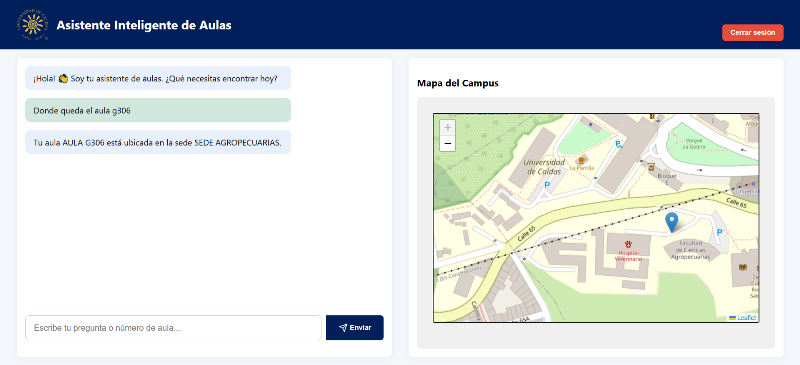
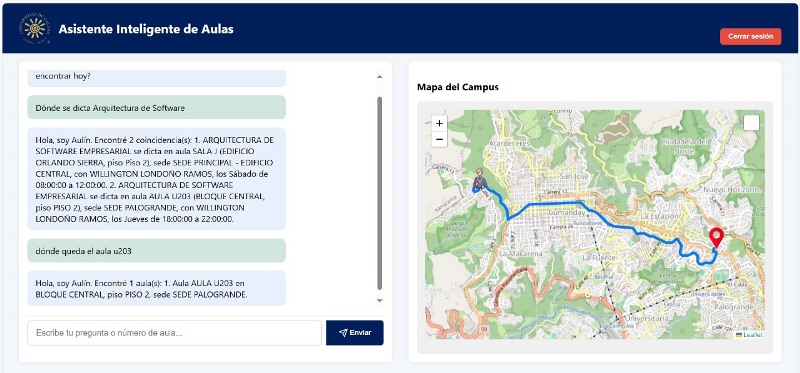
Actualización chatbot asistido con IA (DeepSeek)
Se actualiza la versión con chatbot asistido con IA (DeepSeek) respondiendo a preguntas

diff --git a/src/views/Chatbot.js b/src/views/Chatbot.js
@@ -12,17 +12,22 @@ const Chatbot = () => {
   const navigate = useNavigate();
 
   const [messages, setMessages] = useState([
-    { from: 'bot', text: '¡Hola! 👋 Soy tu asistente de aulas. ¿Qué necesitas encontrar hoy?' }
+    { from: 'bot', text: '¡Hola! 👋 Soy Auli, tu asistente de aulas. ¿Qué aula necesitas encontrar hoy?' }
   ]);
   const [input, setInput] = useState('');
   const [token, setToken] = useState(localStorage.getItem('token') || null);
   const [usuario, setUsuario] = useState(null);
 
-  // Coordenadas iniciales centradas en la Universidad de Caldas (ejemplo)
-  //const [coordenadas, setCoordenadas] = useState({ lat: 5.0703, lng: -75.5138 });
-  const [coordenadas, setCoordenadas] = useState({ lat: 5.055760183855939, lng: -75.49397150793457 });
-  
-  // Captura token desde la URL
+  // Aula por defecto
+  const [coordenadas, setCoordenadas] = useState({
+    lat: 5.055975734921131,
+    lng: -75.49280038325303
+  });
+
+  // Estado para la ubicación actual del usuario
+  const [miUbicacion, setMiUbicacion] = useState(null);
+
+  // Captura token desde URL
   useEffect(() => {
     const query = new URLSearchParams(location.search);
     const tokenFromURL = query.get('token');
@@ -34,7 +39,7 @@ const Chatbot = () => {
     }
   }, [location, navigate]);
 
-  // Decodificar token y establecer usuario
+  // Decodifica token y usuario
   useEffect(() => {
     if (token) {
       try {
@@ -42,19 +47,36 @@ const Chatbot = () => {
         const usuarioLocal = localStorage.getItem('usuario');
 
         if (usuarioLocal) {
-          const userParsed = JSON.parse(usuarioLocal);
-          console.log('Usuario desde localStorage:', userParsed);
-          setUsuario(userParsed);
+          setUsuario(JSON.parse(usuarioLocal));
         } else {
-          console.log('Token decodificado:', decoded);
           setUsuario(decoded);
         }
       } catch (err) {
-        console.error('Error decodificando el token:', err.message);
+        console.error('Error decodificando token:', err.message);
       }
     }
   }, [token]);
 
+  // Obtiene ubicación actual del navegador
+  useEffect(() => {
+    if (navigator.geolocation) {
+      navigator.geolocation.getCurrentPosition(
+        (position) => {
+          setMiUbicacion({
+            lat: position.coords.latitude,
+            lng: position.coords.longitude
+          });
+        },
+        (error) => {
+          console.error('Error obteniendo ubicación actual:', error);
+        }
+      );
+    } else {
+      console.error('Geolocalización no soportada.');
+    }
+  }, []);
+
+  // Enviar pregunta
   const handleSend = async (e) => {
     e.preventDefault();
     if (!input.trim()) return;
@@ -69,13 +91,14 @@ const Chatbot = () => {
       });
 
       setMessages(prev => [...prev, { from: 'bot', text: res.data.mensaje }]);
-      setCoordenadas(res.data.coordenadas); // actualiza el mapa con la nueva ubicación
+      setCoordenadas(res.data.coordenadas); // Actualiza aula en el mapa
     } catch (error) {
       const mensajeError = error.response?.data?.mensaje || 'No pude encontrar esa aula.';
       setMessages(prev => [...prev, { from: 'bot', text: mensajeError }]);
     }
   };
 
+  // Cerrar sesión
   const handleLogout = () => {
     localStorage.removeItem('token');
     navigate('/');
@@ -116,12 +139,13 @@ const Chatbot = () => {
         <div className="map-section">
           <h3>Mapa del Campus</h3>
           <div className="map-placeholder">
-            <MapaAula coordenadas={coordenadas} />
+            {/* PASA TU UBICACIÓN */}
+            <MapaAula coordenadas={coordenadas} miUbicacion={miUbicacion} />
           </div>
         </div>
       </div>
 
-      {/* Mostrar popup de consentimiento si aplica */}
+      {/* Popup consentimiento */}
       <PopupNotificacion usuario={usuario} token={token} />
     </div>
   );

diff --git a/src/components/MapaAula.js b/src/components/MapaAula.js
@@ -1,15 +1,101 @@
-import React from 'react';
-import { MapContainer, TileLayer, Marker, Popup } from 'react-leaflet';
+import React, { useEffect, useRef } from 'react';
+import { MapContainer, TileLayer, Marker, Popup, useMap } from 'react-leaflet';
+import L from 'leaflet';
+import 'leaflet-routing-machine';
+import 'leaflet/dist/leaflet.css';
+import 'leaflet-routing-machine/dist/leaflet-routing-machine.css';
 
-const MapaAula = ({ coordenadas }) => {
-  if (!coordenadas) return <p>Ubicación no disponible</p>;
+// ICONOS
+const aulaIcon = new L.Icon({
+  iconUrl: 'https://cdn-icons-png.flaticon.com/128/684/684908.png',
+  iconSize: [40, 40],
+  iconAnchor: [20, 40],
+  popupAnchor: [0, -35],
+});
+
+const userIcon = new L.Icon({
+  iconUrl: 'https://cdn-icons-png.flaticon.com/128/3429/3429191.png',
+  iconSize: [40, 40],
+  iconAnchor: [20, 40],
+  popupAnchor: [0, -35],
+});
+
+// Routing robusto
+const Routing = ({ from, to }) => {
+  const map = useMap();
+  const routingRef = useRef(null);
+
+  useEffect(() => {
+    if (!from || !to) return;
+
+    // Crear una nueva instancia SOLO si no existe
+    if (!routingRef.current) {
+      routingRef.current = L.Routing.control({
+        waypoints: [L.latLng(from.lat, from.lng), L.latLng(to.lat, to.lng)],
+        lineOptions: {
+          styles: [{ color: '#007bff', weight: 5 }],
+        },
+        show: false,
+        addWaypoints: false,
+        draggableWaypoints: false,
+        routeWhileDragging: false,
+        fitSelectedRoutes: true,
+        showAlternatives: false,
+        createMarker: () => null,
+      }).addTo(map);
+    } else {
+      // Actualiza solo los waypoints sin recrear la instancia
+      routingRef.current.setWaypoints([
+        L.latLng(from.lat, from.lng),
+        L.latLng(to.lat, to.lng),
+      ]);
+    }
+
+    return () => {
+      // Limpia robusto
+      if (routingRef.current) {
+        try {
+          routingRef.current.spliceWaypoints(0, 2); // quita waypoints sin reventar capa
+          map.removeControl(routingRef.current);
+        } catch (err) {
+          console.warn('Error al limpiar Routing:', err);
+        }
+        routingRef.current = null;
+      }
+    };
+  }, [from, to, map]);
+
+  return null;
+};
+
+const MapaAula = ({ coordenadas, miUbicacion }) => {
+  if (!coordenadas) return <p>Ubicación del aula no disponible</p>;
+
+  const center = miUbicacion || coordenadas;
 
   return (
-    <MapContainer center={[coordenadas.lat, coordenadas.lng]} zoom={18} style={{ height: '400px', width: '100%' }}>
-      <TileLayer url="https://{s}.tile.openstreetmap.org/{z}/{x}/{y}.png" />
-      <Marker position={[coordenadas.lat, coordenadas.lng]}>
-        <Popup>Aquí está tu aula</Popup>
+    <MapContainer
+      center={[center.lat, center.lng]}
+      zoom={17}
+      style={{ height: '440px', width: '100%', borderRadius: '10px', overflow: 'hidden' }}
+    >
+      <TileLayer
+        url="https://{s}.tile.openstreetmap.org/{z}/{x}/{y}.png"
+      />
+
+      <Marker position={[coordenadas.lat, coordenadas.lng]} icon={aulaIcon}>
+        <Popup>📚 Aquí está tu aula</Popup>
       </Marker>
+
+      {miUbicacion && (
+        <Marker position={[miUbicacion.lat, miUbicacion.lng]} icon={userIcon}>
+          <Popup>📍 Tu ubicación actual</Popup>
+        </Marker>
+      )}
+
+      {miUbicacion && (
+        <Routing from={miUbicacion} to={coordenadas} />
+      )}
     </MapContainer>
   );
 };

diff --git a/src/styles/Chatbot.css b/src/styles/Chatbot.css
@@ -48,12 +48,15 @@ body {
     display: flex;
     flex-direction: column;
     padding: 1rem;
+    max-height: calc(100vh - 140px);
+    overflow: hidden;
   }
   
   .chat-messages {
     flex: 1;
     overflow-y: auto;
     padding-right: 0.5rem;
+    max-height: calc(100vh - 100px);
   }
   
   .message {
@@ -129,7 +132,7 @@ body {
     background-color: #f0f0f0;
     border-radius: 8px;
     text-align: center;
-    padding: 2rem;
+    padding: 1rem;
     color: #666;
   }
 

diff --git a/README.md b/README.md
@@ -1,6 +1,6 @@
 # 🏫 Sistema de Ubicación de Aulas – Universidad de Caldas
 
-Este proyecto es un sistema inteligente que permite a estudiantes y administrativos ubicar aulas y gestionar asignaciones académicas mediante un panel de administración y un chatbot asistido con IA.
+Este proyecto es un sistema inteligente que permite a estudiantes y administrativos ubicar aulas y gestionar asignaciones académicas mediante un panel de administración **y un chatbot asistido con IA (DeepSeek)**.
 
 ---
 
@@ -14,6 +14,37 @@ Este proyecto es un sistema inteligente que permite a estudiantes y administrati
 - Chatbot de ayuda integrado con acceso restringido por autenticación.
 - Estadísticas del sistema al inicio del dashboard.
 - Arquitectura en capas con principios SOLID.
+
+---
+
+## 🤖 Chatbot inteligente Aulín
+
+El asistente virtual **Aulín** está integrado en el sistema y es capaz de responder preguntas como:
+
+| Intención | Ejemplos de preguntas |
+|-----------|-----------------------|
+| 📍 **Buscar aula** | *Dónde queda el aula U203*, *Dónde está la sala J* |
+| 📚 **Buscar asignatura** | *Dónde se dicta Arquitectura de Software*, *Dónde es la clase de Bases de Datos* |
+| 🏫 **Buscar asignaturas por aula** | *Qué asignaturas se dictan en la sala J*, *Qué materias hay en el aula U203* |
+| 👨🏫 **Buscar materias por profesor** | *Qué materias dicta Willington Londoño* |
+| 👨🏫 **Buscar profesor por asignatura** | *Quién enseña Arquitectura de Software*, *Qué profesor dicta Matemáticas Fundamentales* |
+
+**Funcionamiento:**  
+- Aulín analiza la pregunta con DeepSeek.
+- Clasifica la intención.
+- Extrae el aula, asignatura o profesor solicitado.
+- Consulta la base de datos en tiempo real.
+- Devuelve una respuesta detallada y coordenadas para ubicarla en el mapa.
+
+**Intenciones soportadas por la IA:**
+- `buscar_aula`
+- `buscar_asignatura`
+- `buscar_asignaturas_por_aula`
+- `buscar_materias_por_profesor`
+- `buscar_profesor_por_asignatura`
+- `desconocida` (para preguntas fuera de contexto)
+
+**Nota:** El backend aplica un filtro robusto para limpiar respuestas incorrectas de la IA, garantizando resultados coherentes.
 
 ---
 
@@ -132,6 +163,44 @@ REACT_APP_API_URL=http://localhost:3001
 Iniciar el servidor de desarrollo:
 
 ```bash
+npm start
+```
+
+### 5. Instalar y ejecutar Ollama con DeepSeek
+
+Este proyecto usa **DeepSeek-R1** corriendo localmente mediante **Ollama** para alimentar el chatbot **Aulín**.
+
+**Instalar Ollama (una vez):**  
+Descargar e instalar desde [https://ollama.com/](https://ollama.com/)
+
+**Descargar mediante la terminal PowerShell el modelo DeepSeek-R1:**
+
+```bash
+ollama pull deepseek-r1:7b
+```
+
+**Ejecutar el modelo:**
+
+```bash
+ollama run deepseek-r1:7b
+```
+
+Esto deja corriendo DeepSeek localmente en `http://localhost:11434`.
+
+**Detener manualmente:**  
+- Si lo ejecutaste con `ollama run`, presiona `Ctrl + C` en la terminal para detenerlo.
+- También puedes gestionar modelos desde el dashboard de Ollama.
+
+**Nota:** El backend del chatbot necesita que DeepSeek esté encendido para responder preguntas.
+
+
+### 6. Verificar que el backend y frontend estén en servicio
+
+```bash
+# Backend
+node server.js
+
+# Frontend
 npm start
 ```
 
